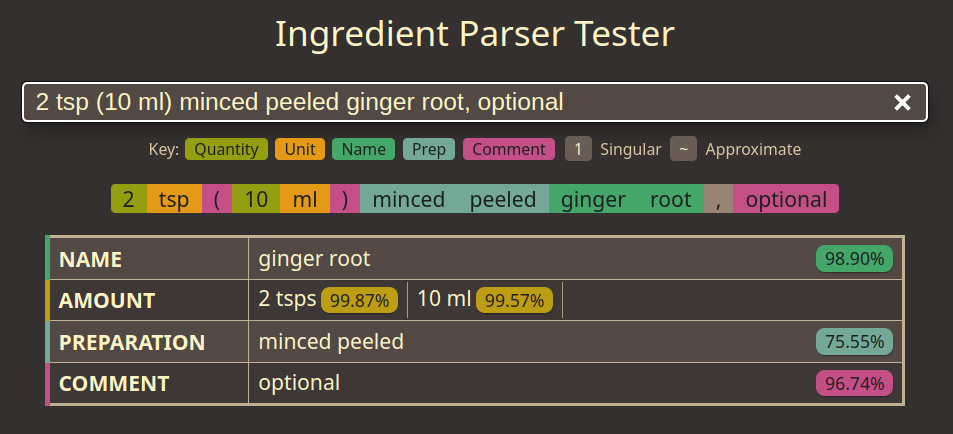
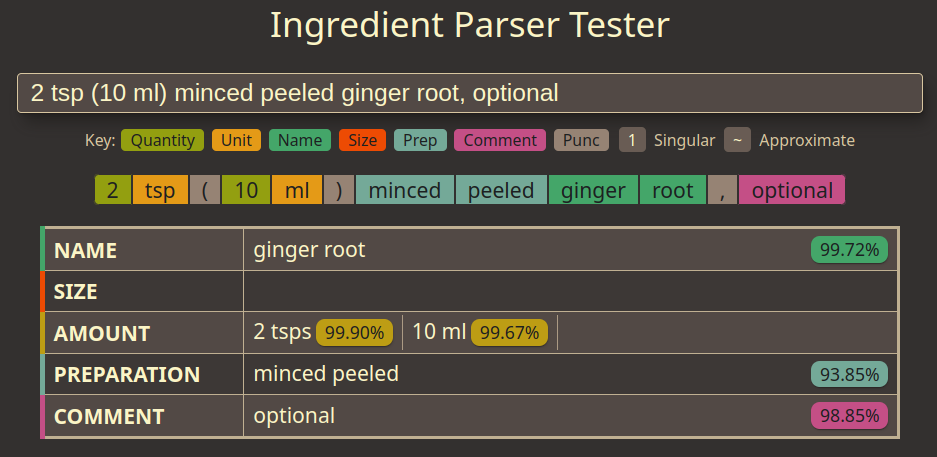
Bugfix: Add PUNC to key in webapp and update screenshot.

diff --git a/webapp/static/css/index.css b/webapp/static/css/index.css
@@ -64,6 +64,7 @@ input {
   padding: 0 1ch;
   background-color: var(--color);
   color: var(--bg);
+  border: 1px solid var(--bg-s);
 }
 .sentence span:first-of-type {
   border-radius: var(--small-radius) 0 0 var(--small-radius);
